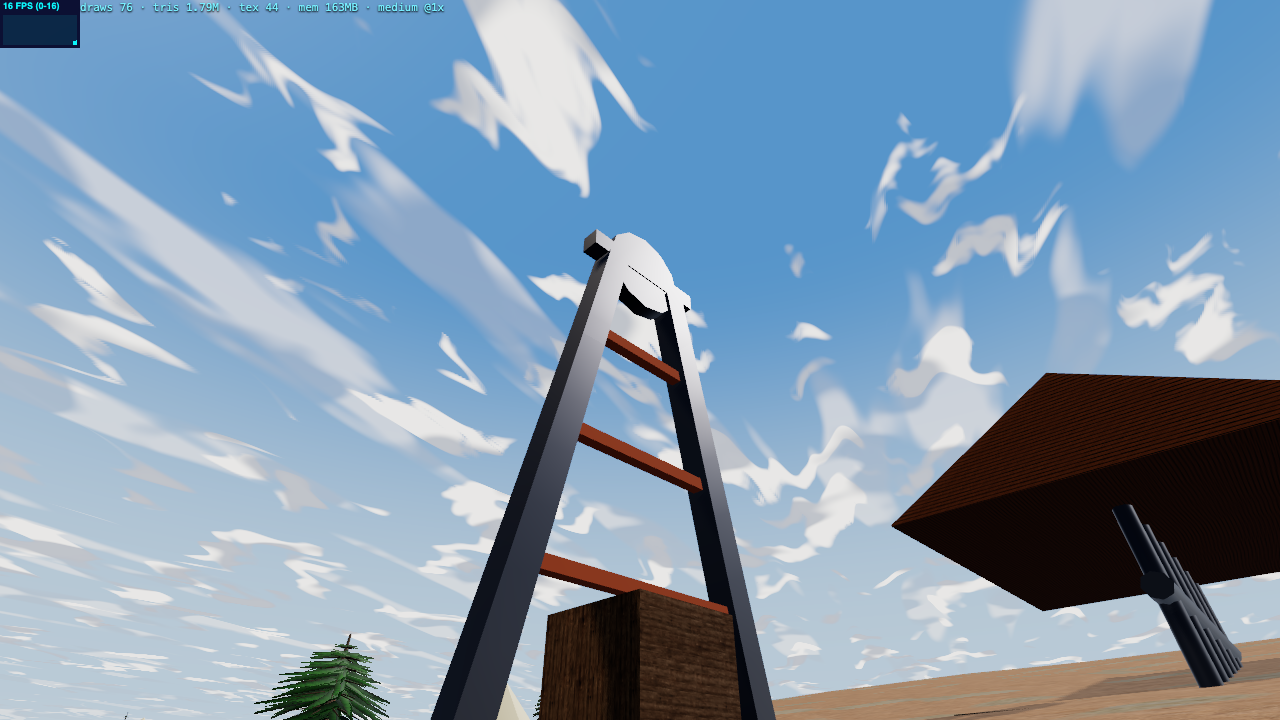
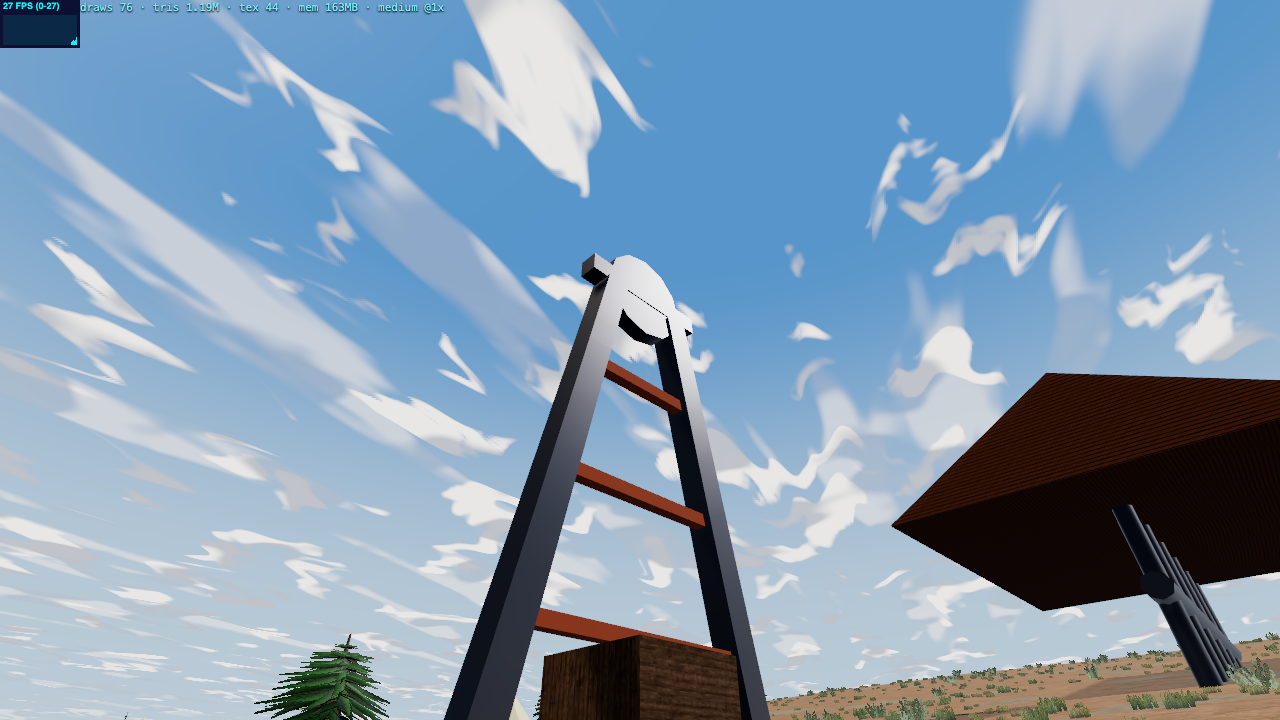
Headframe legs seated on the valley-centre sample floated 1.1 m off the slope
The user's follow-up caught the west leg hanging above the dirt. Every
headframe member was placed on a plane at ivY = heightAt at the valley
centre (44.58), but the tower straddles a slope: terrain under the west leg
runs 43.45 (1.13 m below the plane — the float) and under the east leg 45.33
(0.75 m of bury).

The whole frame now seats at the lowest ground any of it stands on
(lowestSeat under each leg and the centre), like any structure on a slope:
the downhill leg plants, the uphill leg sets into the hillside. The sheave
rides the same seat. The shaft collar block drops to 3 m so the lowest
brace — which the lower seat brought down to hfY + 3.6 — passes over it
instead of burying itself in the block.

Verified by per-member bottom-vs-terrain audit (leg base at its lowest
ground, no member floating), captures of the leg-ground junction from the
user's side and the full A-frame from the previous vantage, and the full
suite (23 PASS, exit 0). Captures in audit/iron-valley/.

Changed region(s): [[0.3125, 0.3056, 1.0, 1.0]]

diff --git a/src/landmarks.js b/src/landmarks.js
@@ -31,7 +31,8 @@ import {
   cylOnPlane,
   coneOnGround,
   coneOnPlane,
-  post
+  post,
+  lowestSeat
 } from "./buildings/kit.js";
 import { mate, anchorsOf, face } from "./buildings/anchors.js";
 import { registerAperture } from "./buildings/apertures.js";
@@ -701,8 +702,18 @@ export function createLandmarks(scene, maps = {}) {
   const hfH = 16;
   const hfLean = 0.22;
   const legInset = (y) => 5 - Math.sin(hfLean) * y;
+  // The tower straddles a slope: terrain under the west leg runs 1.1 m below
+  // and the east leg 0.75 m above the valley-centre sample, so seating every
+  // member on ivY floated the west leg's base clear of the ground. Seat the
+  // whole frame at the lowest ground any of it stands on instead — the uphill
+  // leg buries, like any structure on a slope.
+  const hfY = Math.min(
+    lowestSeat(ivX - 5, ivZ - 6, 0.64),
+    lowestSeat(ivX + 5, ivZ - 6, 0.64),
+    heightAt(ivX, ivZ - 6)
+  );
   for (const sgn of [-1, 1]) {
-    const leg = boxOnPlane(group, ivX + sgn * 5, ivY, ivZ - 6, 0.9, hfH, 0.9, iron, true);
+    const leg = boxOnPlane(group, ivX + sgn * 5, hfY, ivZ - 6, 0.9, hfH, 0.9, iron, true);
     leg.rotation.z = sgn * hfLean;
   }
   for (const y of [4, 8, 12]) {
@@ -713,12 +724,15 @@ export function createLandmarks(scene, maps = {}) {
     // legs — a fixed-width bar poked out past the leaning legs or, lower
     // down, missed them entirely.
     const half = legInset(y) + 0.25;
-    boxOnPlane(group, ivX, ivY + y - 0.2, ivZ - 6, half * 2, 0.4, 0.4, rust, false);
+    boxOnPlane(group, ivX, hfY + y - 0.2, ivZ - 6, half * 2, 0.4, 0.4, rust, false);
   }
-  boxOnPlane(group, ivX, ivY + hfH - 0.35, ivZ - 6, legInset(hfH) * 2 + 2.2, 0.7, 0.7, iron, false);
-  const sheave = cylOnPlane(group, ivX, ivY, ivZ - 6, 1.8, 1.8, 0.6, iron, false, undefined, hfH - 0.3, 12);
+  boxOnPlane(group, ivX, hfY + hfH - 0.35, ivZ - 6, legInset(hfH) * 2 + 2.2, 0.7, 0.7, iron, false);
+  const sheave = cylOnPlane(group, ivX, hfY, ivZ - 6, 1.8, 1.8, 0.6, iron, false, undefined, hfH - 0.3, 12);
   sheave.children[0].rotation.x = Math.PI / 2;
-  boxOnGround(group, ivX, ivZ - 6, 3.5, 4, 3.5, dark, false);
+  // Shaft collar: 3 m tall so the lowest brace (bottom at hfY + 3.6) passes
+  // over it instead of through it — at 4 m the brace buried itself in the
+  // block once the frame was seated at the slope's low side.
+  boxOnGround(group, ivX, ivZ - 6, 3.5, 3, 3.5, dark, false);
   // Half-extents match the 3.5 x 3.5 base; the previous 2 x 2 drew an
   // invisible 0.25 m collar of solid air around the visual block.
   addBoxCollider(ivX, ivZ - 6, 1.75, 1.75);
